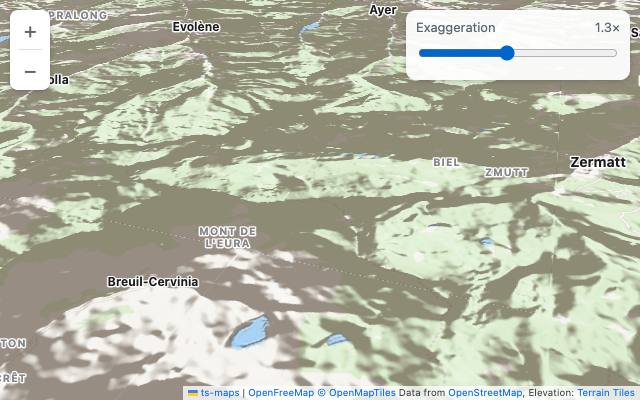
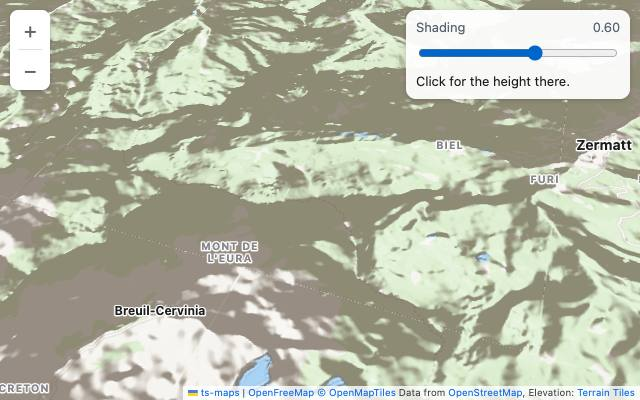
fix(examples): the terrain example does what it says
Example 06 said setTerrain lifted the Alps into 3D, and its exaggeration
slider moved nothing. setTerrain loads the heights; it doesn't raise the
map. The example now shows what is there: the slider sets how strongly
the hillshade shades the slopes, and a click says how high the ground is,
from queryTerrainElevation.

- Example 03's info panel read `top.properties`; hits are `{ feature,
  layer, tile }`, so it showed nothing. It reads the feature's.
- Example pages link with .md links, and 12's snippet has its setFog.

diff --git a/docs/examples/06-terrain.ts b/docs/examples/06-terrain.ts
@@ -1,9 +1,10 @@
 /**
  * Example 06 — Terrain and hillshade.
  *
- * The Alps in 3D, from real elevation: AWS's open Terrain Tiles (Terrarium
- * encoding, no key). One `raster-dem` source feeds both the `hillshade` layer,
- * which shades the slopes, and `setTerrain`, which lifts the map onto them.
+ * The Matterhorn, shaded from real elevation: AWS's open Terrain Tiles
+ * (Terrarium encoding, no key). One `raster-dem` source feeds the `hillshade`
+ * layer, which shades the slopes, and `setTerrain`, which lets the map answer
+ * how high the ground is anywhere you click.
  */
 
 import { styles, TsMap } from '../../packages/ts-maps/src/core-map'
@@ -11,7 +12,7 @@ import { styles, TsMap } from '../../packages/ts-maps/src/core-map'
 const map = new TsMap('map', {
   center: [45.9763, 7.6586], // The Matterhorn
   zoom: 12,
-  pitch: 60,
+  pitch: 45,
   bearing: -20,
   style: styles.light({ url: 'https://tiles.openfreemap.org/planet' }),
 })
@@ -32,14 +33,21 @@ map.on('style.load', () => {
     source: 'dem',
     paint: { 'hillshade-exaggeration': 0.6, 'hillshade-shadow-color': '#5a4a3a' },
   } as any, 'water')
-  map.setTerrain({ source: 'dem', exaggeration: 1.3 })
+  // The heights, for queryTerrainElevation.
+  map.setTerrain({ source: 'dem' })
 })
 
-const exaggeration = document.getElementById('exaggeration') as HTMLInputElement
-const value = document.getElementById('exaggeration-value') as HTMLElement
-exaggeration.addEventListener('input', () => {
-  value.textContent = `${Number(exaggeration.value).toFixed(1)}×`
-  map.setTerrain({ source: 'dem', exaggeration: Number(exaggeration.value) })
+const shading = document.getElementById('shading') as HTMLInputElement
+const shadingValue = document.getElementById('shading-value') as HTMLElement
+shading.addEventListener('input', () => {
+  shadingValue.textContent = Number(shading.value).toFixed(2)
+  map.setPaintProperty('hillshade', 'hillshade-exaggeration', Number(shading.value))
+})
+
+const height = document.getElementById('height') as HTMLElement
+map.on('click', (e: any) => {
+  const metres = map.queryTerrainElevation(e.latlng)
+  height.textContent = metres === null ? 'No height here yet.' : `${Math.round(metres).toLocaleString()} m above sea level`
 })
 
 const globalScope = globalThis as unknown as { demo: unknown }

diff --git a/scripts/build-playground.ts b/scripts/build-playground.ts
@@ -98,7 +98,7 @@ const PANELS: Record<string, string> = {
   '02-camera': '<div class="panel"><button type="button" id="fly-ny">New York</button><button type="button" id="fly-london">London</button><button type="button" id="fly-tokyo">Tokyo</button><br><button type="button" id="ease-tilt" class="secondary">Tilt</button><button type="button" id="ease-flat" class="secondary">Flatten</button><button type="button" id="jump" class="secondary">Jump to Paris</button></div>',
   '03-vector-tile': '<div class="panel" id="info"></div>',
   '04-style-spec': '<div class="panel"><button type="button" id="tint-indigo">Indigo</button><button type="button" id="tint-rose">Rose</button><button type="button" id="tint-emerald">Emerald</button><button type="button" id="toggle-fill" class="secondary">Fill on / off</button></div>',
-  '06-terrain': '<div class="panel"><label for="exaggeration">Exaggeration <span id="exaggeration-value">1.3×</span></label><input id="exaggeration" type="range" min="0" max="3" step="0.1" value="1.3"></div>',
+  '06-terrain': '<div class="panel"><label for="shading">Shading <span id="shading-value">0.60</span></label><input id="shading" type="range" min="0" max="1" step="0.05" value="0.6"><div id="height">Click for the height there.</div></div>',
   '08-symbols': '<div class="panel" id="info"></div>',
   '15-landmarks': '<div class="panel"><button type="button" id="pyramid">Transamerica Pyramid</button><button type="button" id="presidio">Presidio woods</button></div>',
   '17-localization': '<div class="bottom panel"><a data-lang="de" href="?lang=de">Deutsch</a> · <a data-lang="en" href="?lang=en">English</a></div>',

diff --git a/docs/examples/03-vector-tile.ts b/docs/examples/03-vector-tile.ts
@@ -54,7 +54,8 @@ map.on('click', (e: any) => {
     info.textContent = 'Nothing here. Try a road, a building or the river.'
     return
   }
-  const props = Object.entries(top.properties ?? {}).filter(([, v]) => v !== undefined && v !== null)
+  // A hit is the feature, its style layer and the tile it came from.
+  const props = Object.entries(top.feature?.properties ?? {}).filter(([, v]) => v !== undefined && v !== null)
   info.innerHTML = `<b>${top.layer?.id ?? top.sourceLayer}</b><br>${props.map(([k, v]) => `${k}: ${String(v)}`).join('<br>')}`
 })
 

diff --git a/docs/examples/03-vector-tile.md b/docs/examples/03-vector-tile.md
@@ -1,6 +1,6 @@
 # 03 · Vector tiles, styled from scratch
 
-The same OpenMapTiles planet the basemap draws, with a style of our own: three layers picked by `source-layer` and painted with expressions. Click a road, a building or the river to see what its tile says about it, through `queryRenderedFeatures`.
+The same OpenMapTiles planet the basemap draws, with a style of our own: a background and three layers picked by `source-layer`, painted with expressions. Click a road, a building or the river to see what its tile says about it, through `queryRenderedFeatures`.
 
 <iframe class="ts-maps-demo" src="/playground/examples/03-vector-tile.html" title="Vector tiles, styled from scratch, running" loading="lazy" style="width: 100%; height: 440px; border: 0; border-radius: 12px; background: #e8eaed;"></iframe>
 
@@ -19,11 +19,16 @@ const map = new TsMap('map', {
       { id: 'roads', type: 'line', source: 'planet', 'source-layer': 'transportation', paint: {
         'line-color': ['match', ['get', 'class'], ['motorway', 'trunk', 'primary'], '#f2a33a', '#b9b2a6'],
       } },
+      { id: 'buildings', type: 'fill', source: 'planet', 'source-layer': 'building', minzoom: 14, paint: { 'fill-color': '#d8d1c4' } },
     ],
   },
 })
 
-map.on('click', e => console.log(map.queryRenderedFeatures(e.containerPoint, { layers: ['roads'] })))
+map.on('click', (e) => {
+  const [hit] = map.queryRenderedFeatures(e.containerPoint, { layers: ['roads', 'buildings', 'water'] })
+  if (hit)
+    console.log(hit.layer.id, hit.feature.properties)
+})
 ```
 
 ---

diff --git a/docs/examples/06-terrain.md b/docs/examples/06-terrain.md
@@ -1,6 +1,6 @@
 # 06 · Terrain and hillshade
 
-The Matterhorn in 3D, from real elevation: AWS's open [Terrain Tiles](https://registry.opendata.aws/terrain-tiles/) (Terrarium encoding, no key). One `raster-dem` source feeds both the `hillshade` layer, which shades the slopes, and `setTerrain`, which lifts the map onto them.
+The Matterhorn, shaded from real elevation: AWS's open [Terrain Tiles](https://registry.opendata.aws/terrain-tiles/) (Terrarium encoding, no key). One `raster-dem` source feeds both the `hillshade` layer, which shades the slopes, and `setTerrain`, which lets the map say how high the ground is: click anywhere. The slider sets how strongly the slopes are shaded.
 
 <iframe class="ts-maps-demo" src="/playground/examples/06-terrain.html" title="Terrain and hillshade, running" loading="lazy" style="width: 100%; height: 480px; border: 0; border-radius: 12px; background: #e8eaed;"></iframe>
 
@@ -15,7 +15,11 @@ map.on('style.load', () => {
     encoding: 'terrarium',
   })
   map.addStyleLayer({ id: 'hillshade', type: 'hillshade', source: 'dem' }, 'water')
-  map.setTerrain({ source: 'dem', exaggeration: 1.3 })
+  map.setTerrain({ source: 'dem' })
+})
+
+map.on('click', (e) => {
+  const metres = map.queryTerrainElevation(e.latlng) // null until that tile has loaded
 })
 ```
 

diff --git a/docs/examples/index.md b/docs/examples/index.md
@@ -33,7 +33,7 @@ To see more of the library at once, open the [playground](/demos/): its demos go
   <a href='./06-terrain.md' style='display: flex; flex-direction: column; border: 1px solid rgba(127, 127, 127, 0.25); border-radius: 12px; overflow: hidden; text-decoration: none; color: inherit;'>
     <img src='/playground/examples/thumbs/06-terrain.jpg' alt='' loading='lazy' style='display: block; width: 100%; aspect-ratio: 8 / 5; object-fit: cover; margin: 0;' />
     <span style='display: block; padding: 10px 12px 2px; font-weight: 600;'>06 · Terrain and hillshade</span>
-    <span style='display: block; padding: 0 12px 12px; font-size: 0.86em; opacity: 0.75; line-height: 1.45;'>The Matterhorn in 3D, from real elevation.</span>
+    <span style='display: block; padding: 0 12px 12px; font-size: 0.86em; opacity: 0.75; line-height: 1.45;'>The Matterhorn, shaded from real elevation.</span>
   </a>
   <a href='./07-clusters.md' style='display: flex; flex-direction: column; border: 1px solid rgba(127, 127, 127, 0.25); border-radius: 12px; overflow: hidden; text-decoration: none; color: inherit;'>
     <img src='/playground/examples/thumbs/07-clusters.jpg' alt='' loading='lazy' style='display: block; width: 100%; aspect-ratio: 8 / 5; object-fit: cover; margin: 0;' />

diff --git a/docs/examples/17-localization.md b/docs/examples/17-localization.md
@@ -1,6 +1,6 @@
 # 17 · Localization
 
-The same controls in German: search and its categories, the map type picker, Offline Maps and the zoom buttons. `locale` on the map sets the language of every control on it; a control's own `locale` wins. English and German are built in, and `addMessages` adds another. See [Localization](/concepts/localization).
+The same controls in German: search and its categories, the map type picker, Offline Maps and the zoom buttons. `locale` on the map sets the language of every control on it; a control's own `locale` wins. English and German are built in, and `addMessages` adds another. See [Localization](../concepts/localization.md).
 
 <iframe class="ts-maps-demo" src="/playground/examples/17-localization.html" title="Localization, running" loading="lazy" style="width: 100%; height: 480px; border: 0; border-radius: 12px; background: #e8eaed;"></iframe>
 

diff --git a/docs/examples/09-search.md b/docs/examples/09-search.md
@@ -1,6 +1,6 @@
 # 09 · Search
 
-Apple Maps' search box in one line: suggestions as you type, Find Nearby, a pin for every result and a card for the place you choose, with its hours, Directions and Save. Answers come from the map's own tiles and from Photon, OpenStreetMap's geocoder. See [the search control](/concepts/controls#search) for its options.
+Apple Maps' search box in one line: suggestions as you type, Find Nearby, a pin for every result and a card for the place you choose, with its hours, Directions and Save. Answers come from the map's own tiles and from Photon, OpenStreetMap's geocoder. See [the search control](../concepts/controls.md#search) for its options.
 
 <iframe class="ts-maps-demo" src="/playground/examples/09-search.html" title="Search, running" loading="lazy" style="width: 100%; height: 480px; border: 0; border-radius: 12px; background: #e8eaed;"></iframe>
 

diff --git a/docs/examples/11-offline.md b/docs/examples/11-offline.md
@@ -1,6 +1,6 @@
 # 11 · Offline maps
 
-The Offline Maps button: pick an area, see how much it will take, and download it. Its tiles, fonts, places and roads are kept in the browser, so the map, search and directions all work with no connection. See [Offline](/concepts/offline).
+The Offline Maps button: pick an area, see how much it will take, and download it. Its tiles, fonts, places and roads are kept in the browser, so the map, search and directions all work with no connection. See [Offline](../concepts/offline.md).
 
 <iframe class="ts-maps-demo" src="/playground/examples/11-offline.html" title="Offline maps, running" loading="lazy" style="width: 100%; height: 480px; border: 0; border-radius: 12px; background: #e8eaed;"></iframe>
 

diff --git a/docs/examples/12-globe.md b/docs/examples/12-globe.md
@@ -13,6 +13,9 @@ const map = new TsMap('map', {
   projection: 'globe',
   style: styles.light({ url: 'https://tiles.openfreemap.org/planet' }),
 })
+
+// The halo round it, and the space behind.
+map.setFog({ 'color': '#ffffff', 'space-color': '#dfe7f0' })
 ```
 
 ---
